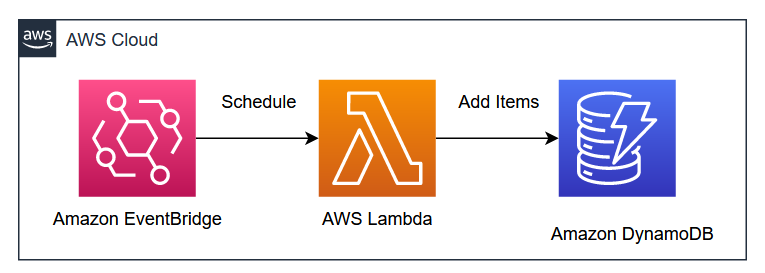
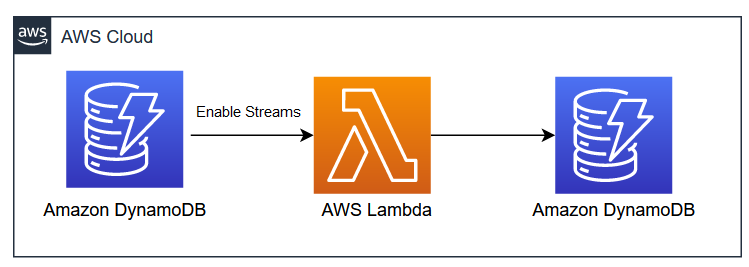
updated the architecture diagram

Changed region(s): [[0.0, 0.0599, 1.0, 0.9888]]

diff --git a/dynamodb-streams-lambda-dynamodb/README.md b/dynamodb-streams-lambda-dynamodb/README.md
@@ -1,8 +1,8 @@
-# Leverage AWS CDK, Lambda and DynamoDB Streams to move data from Source to Target DynamoDB table
+# Leverage AWS CDK, Lambda and DynamoDB Streams to copy data from Source to Target DynamoDB table
 
-DynamoDB is being used by thousands of customers globally to build the mission-critical business applications due to various benefits such as scalability, reliability, low latency, high durability etc. While leveraging DynamoDB database, customers come across many scenarios where they want to move data from one DynamoDB table to another at near real-time. This pattern addresses that use-case. 
+DynamoDB is being used by thousands of customers globally to build the mission-critical business applications due to various benefits such as scalability, reliability, low latency, high durability etc. While leveraging DynamoDB database, customers come across many scenarios where they want to copy data from one DynamoDB table to another at near real-time. This pattern addresses that use-case. 
 
-In this pattern, you'll learn how you can leverage .NET based CDK application along-with Lambda function and DynamoDB streams to move data between source and target DynamoDB tables.
+In this pattern, you'll learn how you can leverage .NET based CDK application along-with Lambda function and DynamoDB streams to copy data between source and target DynamoDB tables.
 
 ## Architecture 
 ![architecture diagram](images/architecture.png)
